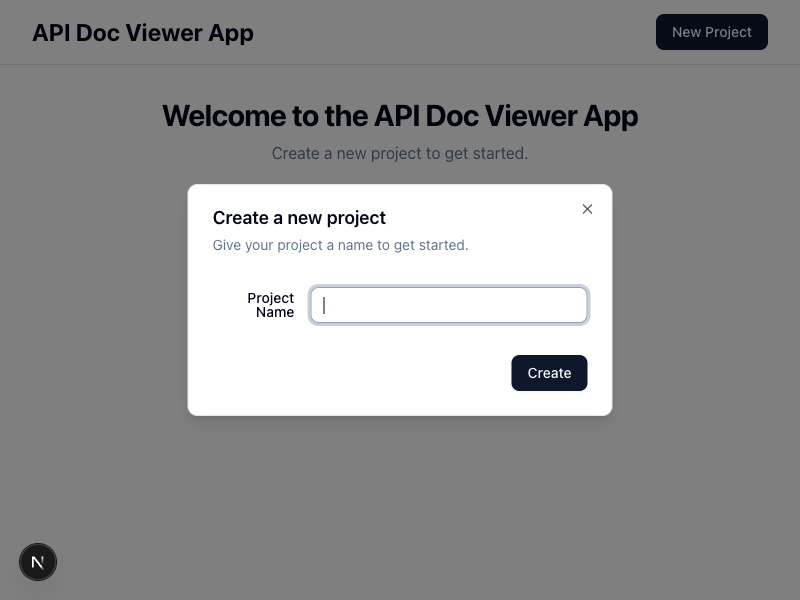
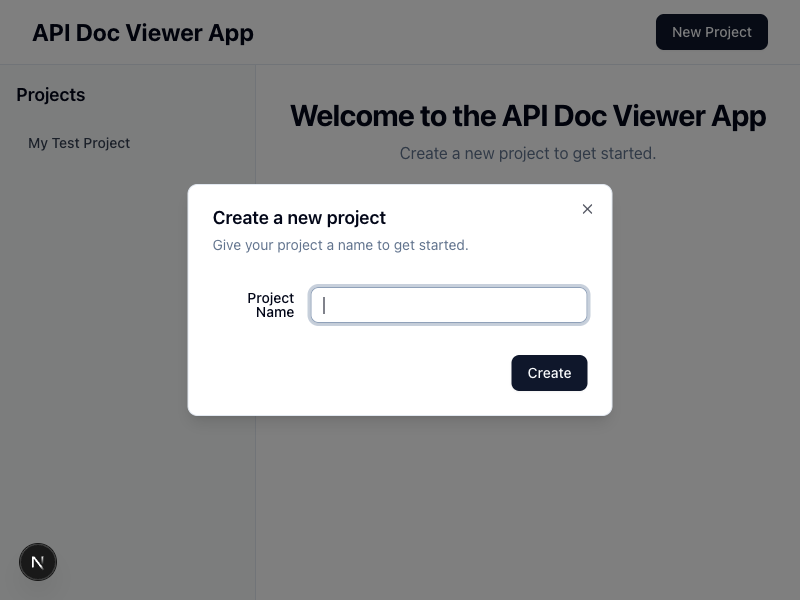
feat: implement project detail page and API

diff --git a/src/app/projects/[id]/page.tsx b/src/app/projects/[id]/page.tsx
@@ -1,0 +1,58 @@
+
+"use client";
+
+import { useEffect, useState } from "react";
+import { useParams } from "next/navigation";
+
+interface Project {
+  id: string;
+  name: string;
+}
+
+export default function ProjectDetailPage() {
+  const params = useParams();
+  const projectId = params.id as string;
+  const [project, setProject] = useState<Project | null>(null);
+  const [loading, setLoading] = useState(true);
+  const [error, setError] = useState<string | null>(null);
+
+  useEffect(() => {
+    if (!projectId) return;
+
+    const fetchProject = async () => {
+      try {
+        const response = await fetch(`/api/projects/${projectId}`);
+        if (!response.ok) {
+          throw new Error("Failed to fetch project");
+        }
+        const data = await response.json();
+        setProject(data.project);
+      } catch (err: any) {
+        setError(err.message);
+      } finally {
+        setLoading(false);
+      }
+    };
+
+    fetchProject();
+  }, [projectId]);
+
+  if (loading) {
+    return <div className="text-center">Loading project...</div>;
+  }
+
+  if (error) {
+    return <div className="text-center text-red-500">Error: {error}</div>;
+  }
+
+  if (!project) {
+    return <div className="text-center">Project not found.</div>;
+  }
+
+  return (
+    <div>
+      <h1 className="text-3xl font-bold mb-4">Project: {project.name}</h1>
+      {/* File upload UI will go here later */}
+    </div>
+  );
+}

diff --git a/src/app/api/projects/[id]/route.ts b/src/app/api/projects/[id]/route.ts
@@ -1,0 +1,26 @@
+
+import { NextResponse } from "next/server";
+import { PrismaClient } from "@prisma/client";
+
+const prisma = new PrismaClient();
+
+export async function GET(request: Request, { params }: { params: { id: string } }) {
+  const projectId = params.id;
+
+  try {
+    const project = await prisma.project.findUnique({
+      where: {
+        id: projectId,
+      },
+    });
+
+    if (!project) {
+      return NextResponse.json({ message: "Project not found" }, { status: 404 });
+    }
+
+    return NextResponse.json({ project }, { status: 200 });
+  } catch (error) {
+    console.error("Error fetching project:", error);
+    return NextResponse.json({ message: "Failed to fetch project" }, { status: 500 });
+  }
+}
